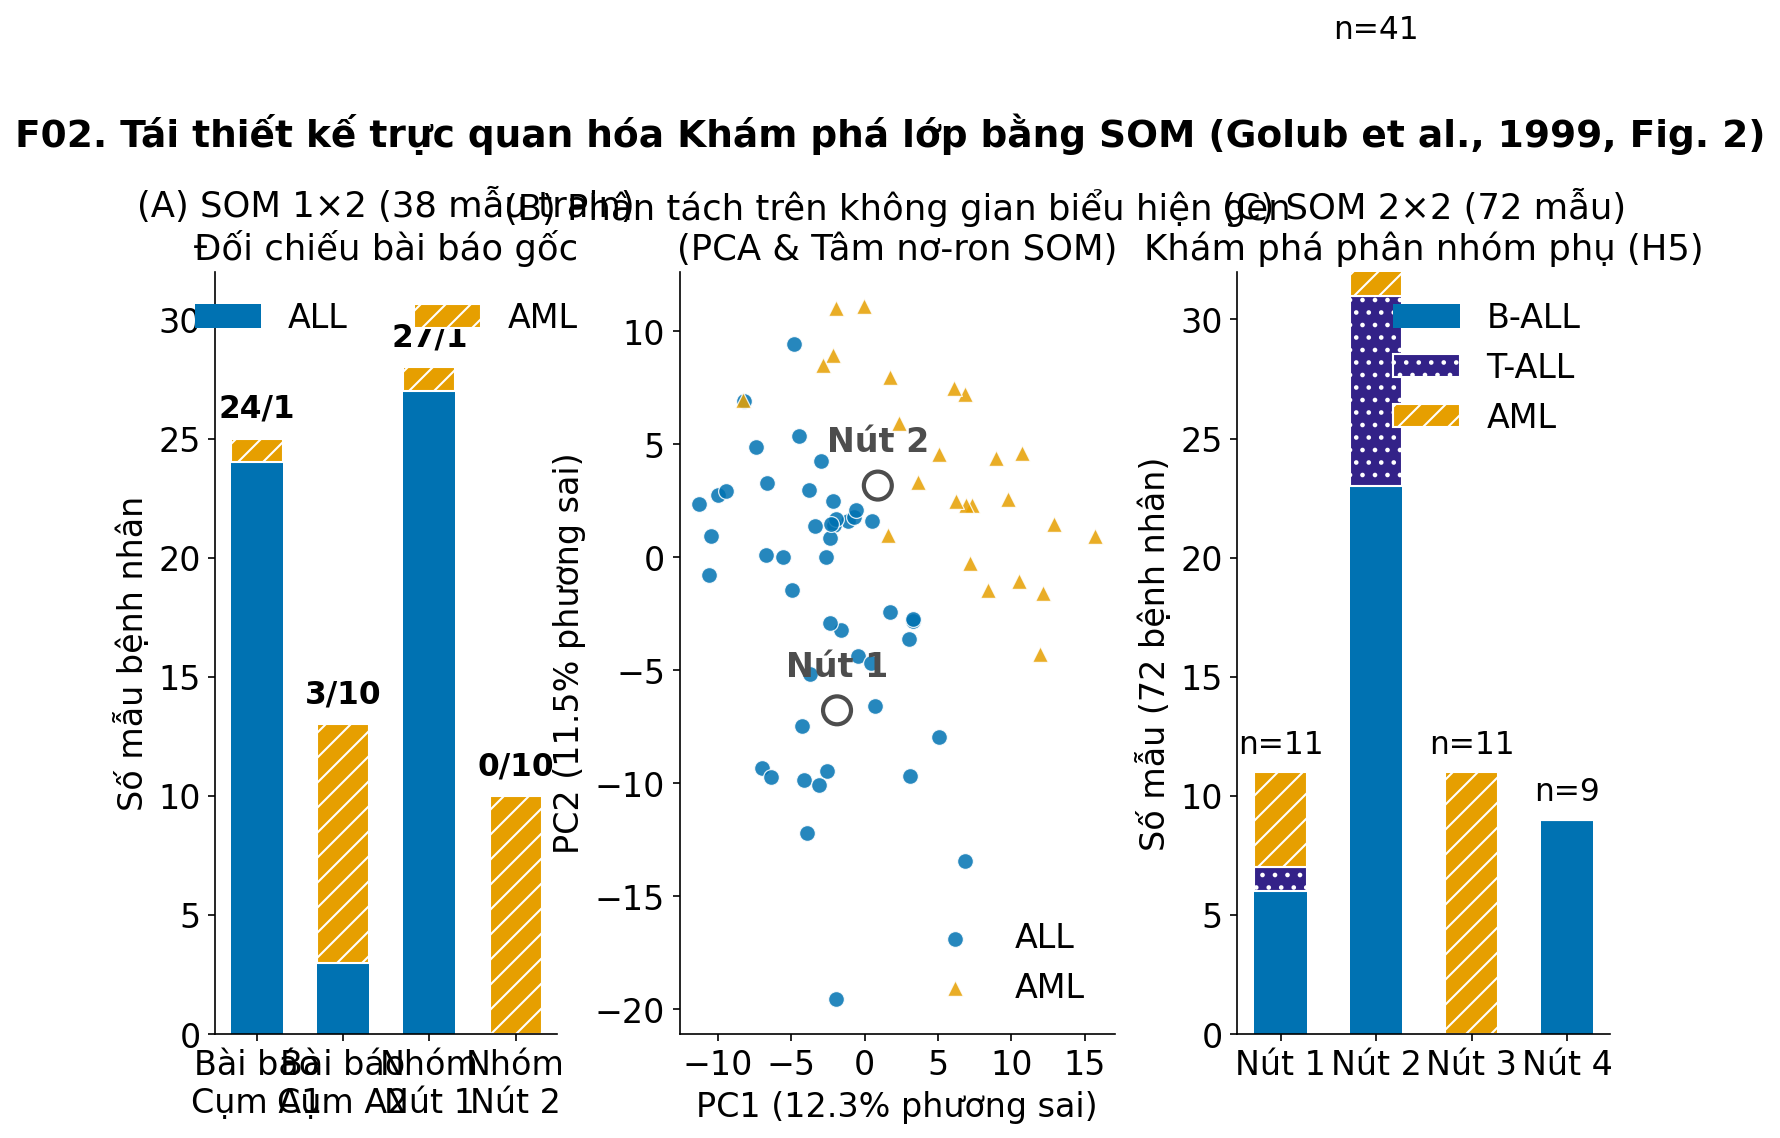
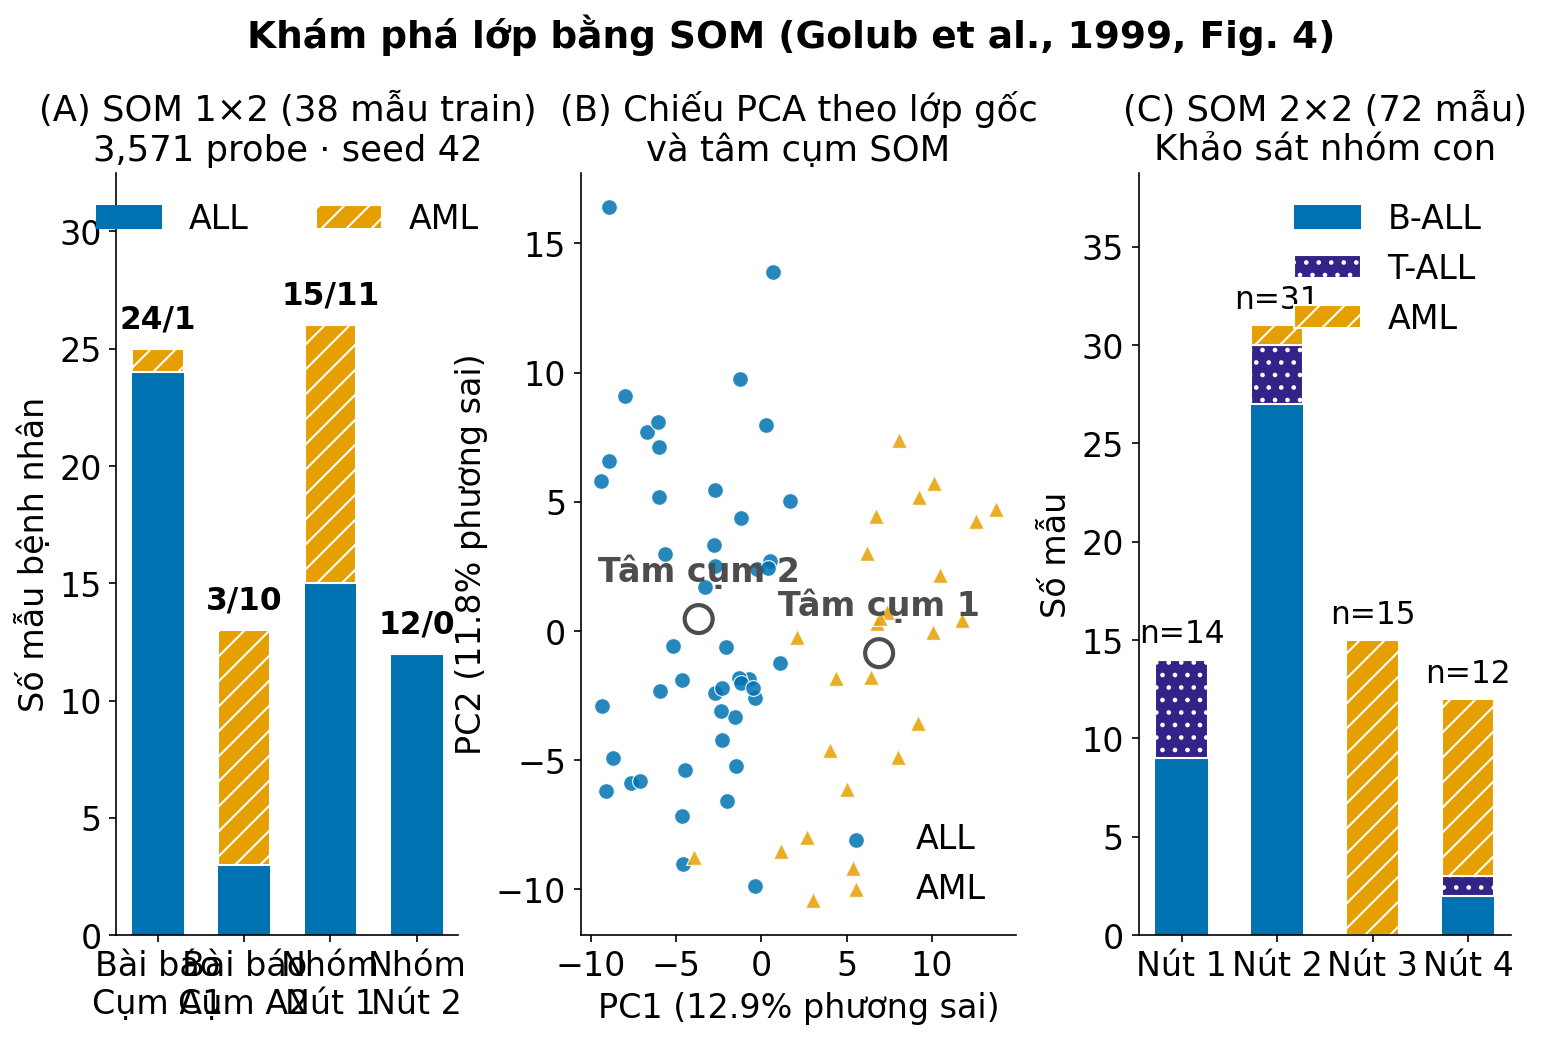
fix(tv5): gắn đúng hình SOM và bổ sung tham chiếu Fig 2

diff --git a/src/viz_redesign.py b/src/viz_redesign.py
@@ -1,7 +1,8 @@
 """TV5 - src/viz_redesign.py (Công việc 2.5: Tái thiết kế trực quan hóa Golub 1999; ADR-014, ADR-061).
 
 Tái thiết kế các hình kinh điển của bài báo Golub et al. (1999) theo chuẩn trực quan hóa hiện đại:
-    - Fig 2: Phân cụm không giám sát bằng Self-Organizing Maps (SOM 1x2 và 2x2), đối chiếu cấu trúc lớp và chiếu không gian biểu hiện gen.
+    - Fig 2: Phân tích lân cận dùng hình F6 đã có ở mục 3.3.
+    - Fig 4: Phân cụm không giám sát bằng Self-Organizing Maps (SOM 1x2 và 2x2), đối chiếu cấu trúc lớp và chiếu không gian biểu hiện gen.
     - Fig 3A: Phân bố Prediction Strength (PS) của mô hình Weighted Voting.
     - F04 (hình bổ sung của nhóm): Phân tích lỗi Logistic Regression trên tập kiểm tra độc lập theo loại mô và nguồn thu thập.
 
@@ -11,8 +12,8 @@ Tuân thủ nghiêm ngặt Style Guide (docs/style_guide.md) và ADR-014:
     - Không chỉnh sửa src/viz.py của TV6.
 
 Cách dùng:
-    from src.viz_redesign import plot_fig2_som_redesign, plot_fig3a_prediction_strength, plot_fig4_error_analysis
-    fig2 = plot_fig2_som_redesign(X, samples, mode="report")
+    from src.viz_redesign import plot_fig4_som_redesign, plot_fig3a_prediction_strength, plot_fig4_error_analysis
+    fig_som = plot_fig4_som_redesign(X, samples, mode="report")
     fig3a = plot_fig3a_prediction_strength(ps_df, mode="report")
     fig4 = plot_fig4_error_analysis(preds, samples, mode="report")
 
@@ -32,7 +33,7 @@ from sklearn.decomposition import PCA
 
 try:
     from src.config import (
-        PROJECT_ROOT, PS_THRESHOLD, RANDOM_SEED
+        CURATED_DIR, PROJECT_ROOT, PS_THRESHOLD, RANDOM_SEED
     )
     from src.evaluate import evaluate, _baseline_pipeline
     from src.load import load_golub
@@ -43,7 +44,7 @@ try:
     )
 except ModuleNotFoundError:
     from config import (
-        PROJECT_ROOT, PS_THRESHOLD, RANDOM_SEED
+        CURATED_DIR, PROJECT_ROOT, PS_THRESHOLD, RANDOM_SEED
     )
     from evaluate import evaluate, _baseline_pipeline
     from load import load_golub
@@ -55,7 +56,7 @@ except ModuleNotFoundError:
 
 
 # --------------------------------------------------------------------------------------
-# 1. Huấn luyện SOM hỗ trợ Fig 2
+# 1. Huấn luyện SOM hỗ trợ Fig 4
 # --------------------------------------------------------------------------------------
 
 def fit_som_labels(X_mat: np.ndarray, shape: tuple[int, int], seed: int = RANDOM_SEED, n_iter: int = 1500) -> np.ndarray:
@@ -67,23 +68,24 @@ def fit_som_labels(X_mat: np.ndarray, shape: tuple[int, int], seed: int = RANDOM
 
 
 # --------------------------------------------------------------------------------------
-# 2. Tái thiết kế Fig 2: SOM Class Discovery
+# 2. Tái thiết kế Fig 4: Khám phá lớp bằng SOM
 # --------------------------------------------------------------------------------------
 
-def plot_fig2_som_redesign(
+def plot_fig4_som_redesign(
     X_filtered: pd.DataFrame,
     samples: pd.DataFrame,
     mode: str = "report",
     seed: int = RANDOM_SEED
 ) -> plt.Figure:
-    """Tái thiết kế Hình 2 của bài báo Golub 1999: Khám phá lớp bằng mạng SOM.
+    """Tái thiết kế phần SOM của Fig. 4 trong bài báo Golub 1999.
 
     Gồm 3 bảng liên kết:
         (A) Thành phần lâm sàng các nơ-ron SOM 1x2 (38 mẫu huấn luyện): đối chiếu cụm A1/A2.
-        (B) Chiếu các mẫu và nơ-ron SOM lên không gian PCA PC1-PC2 để thấy ranh giới phân tách.
+        (B) Chiếu các mẫu lên PC1–PC2 và đánh dấu trung bình tọa độ của từng cụm SOM.
         (C) Phân tách các nhóm con tế bào lympho (B-ALL vs T-ALL) trên mạng SOM 2x2 (4 nơ-ron).
     """
     with plt.rc_context(style_rc(mode)):
+        samples = samples.loc[X_filtered.index]
         fig = plt.figure(figsize=(figsize(mode, height_ratio=0.5)[0], figsize(mode, height_ratio=0.5)[1] * 1.1))
         gs = fig.add_gridspec(1, 3, width_ratios=[1.1, 1.4, 1.2], wspace=0.32)
 
@@ -96,11 +98,9 @@ def plot_fig2_som_redesign(
         X_tr = X_filtered.loc[samples_tr.index].values
 
         lab_1x2 = fit_som_labels(X_tr, (1, 2), seed=seed, n_iter=1000)
-        ct_1x2 = pd.crosstab(lab_1x2, samples_tr["class"])
-        # Đảm bảo có đủ 2 cột ALL và AML
-        for col in ("ALL", "AML"):
-            if col not in ct_1x2.columns:
-                ct_1x2[col] = 0
+        ct_1x2 = pd.crosstab(lab_1x2, samples_tr["class"]).reindex(
+            index=range(2), columns=["ALL", "AML"], fill_value=0,
+        )
 
         # Sắp xếp nút có ALL chiếm ưu thế sang trái (A1)
         if ct_1x2.loc[0, "ALL"] < ct_1x2.loc[1, "ALL"]:
@@ -126,8 +126,8 @@ def plot_fig2_som_redesign(
         ax_a.set_xticks(x_pos)
         ax_a.set_xticklabels([p[0] for p in paper_counts])
         ax_a.set_ylabel("Số mẫu bệnh nhân")
-        ax_a.set_ylim(0, 32)
-        ax_a.set_title("(A) SOM 1×2 (38 mẫu train)\nĐối chiếu bài báo gốc")
+        ax_a.set_ylim(0, 1.25 * max(a + m for _, a, m in paper_counts))
+        ax_a.set_title(f"(A) SOM 1×2 ({len(samples_tr)} mẫu train)\n{X_filtered.shape[1]:,} probe · seed {seed}")
         ax_a.legend(frameon=False, loc="upper center", ncol=2)
 
         # ---------------------------------------------------------
@@ -150,21 +150,18 @@ def plot_fig2_som_redesign(
                 alpha=0.85, edgecolors="white", linewidth=0.6, label=cls_name, zorder=3
             )
 
-        # Vẽ đường ellipse / ranh giới gần đúng giữa 2 nơ-ron SOM
-        centroids_pca = []
+        # Đánh dấu trung bình tọa độ PCA của các mẫu trong từng cụm.
         for n_id in np.unique(lab_all_1x2):
             pts = X_pca[lab_all_1x2 == n_id]
             c = pts.mean(axis=0)
-            centroids_pca.append(c)
-            # Vẽ vòng tròn tâm nơ-ron
             ax_b.scatter(c[0], c[1], s=style_rc(mode)["lines.linewidth"] * 75,
                          facecolors="none", edgecolors=NEUTRAL, linewidths=2.0, zorder=4)
-            ax_b.text(c[0], c[1] + 1.2, f"Nút {n_id + 1}", ha="center", va="bottom",
+            ax_b.text(c[0], c[1] + 1.2, f"Tâm cụm {n_id + 1}", ha="center", va="bottom",
                       color=NEUTRAL, fontweight="bold")
 
         ax_b.set_xlabel(f"PC1 ({var1:.1f}% phương sai)")
         ax_b.set_ylabel(f"PC2 ({var2:.1f}% phương sai)")
-        ax_b.set_title("(B) Phân tách trên không gian biểu hiện gen\n(PCA & Tâm nơ-ron SOM)")
+        ax_b.set_title("(B) Chiếu PCA theo lớp gốc\nvà tâm cụm SOM")
         ax_b.legend(frameon=False, loc="lower right")
 
         # ---------------------------------------------------------
@@ -172,12 +169,10 @@ def plot_fig2_som_redesign(
         # ---------------------------------------------------------
         ax_c = fig.add_subplot(gs[0, 2])
         lab_2x2 = fit_som_labels(X_filtered.values, (2, 2), seed=seed, n_iter=1500)
-        ct_2x2 = pd.crosstab(lab_2x2, samples["subtype"])
-        for sub in ("B-ALL", "T-ALL", "AML"):
-            if sub not in ct_2x2.columns:
-                ct_2x2[sub] = 0
-
         n_nodes = 4
+        ct_2x2 = pd.crosstab(lab_2x2, samples["subtype"]).reindex(
+            index=range(n_nodes), columns=["B-ALL", "T-ALL", "AML"], fill_value=0,
+        )
         x_c = np.arange(n_nodes)
         b_vals = ct_2x2["B-ALL"].values
         t_vals = ct_2x2["T-ALL"].values
@@ -194,12 +189,12 @@ def plot_fig2_som_redesign(
 
         ax_c.set_xticks(x_c)
         ax_c.set_xticklabels([f"Nút {i+1}" for i in range(n_nodes)])
-        ax_c.set_ylabel("Số mẫu (72 bệnh nhân)")
-        ax_c.set_ylim(0, 32)
-        ax_c.set_title("(C) SOM 2×2 (72 mẫu)\nKhám phá phân nhóm phụ (H5)")
+        ax_c.set_ylabel("Số mẫu")
+        ax_c.set_ylim(0, 1.25 * (b_vals + t_vals + m_vals).max())
+        ax_c.set_title(f"(C) SOM 2×2 ({len(samples)} mẫu)\nKhảo sát nhóm con")
         ax_c.legend(frameon=False, loc="upper right")
 
-        fig.suptitle("F02. Tái thiết kế trực quan hóa Khám phá lớp bằng SOM (Golub et al., 1999, Fig. 2)",
+        fig.suptitle("Khám phá lớp bằng SOM (Golub et al., 1999, Fig. 4)",
                      y=1.04, fontweight="bold")
         return fig
 
@@ -477,6 +472,7 @@ def generate_all_redesigned_figures() -> None:
     """Sinh toàn bộ hình F02, F03a và F04 ở cả hai phiên bản report và slide."""
     print("--- Bắt đầu sinh hình F02, F03a và F04 tái thiết kế ---")
     X_cu, samples = load_golub("curated")
+    X_som = pd.read_parquet(CURATED_DIR / "X_log10_filtered.parquet")
 
     # 1. Chạy đánh giá để lấy bảng dự đoán 34 mẫu kiểm tra cho Fig 4
     pipe = _baseline_pipeline(k=50)
@@ -484,11 +480,10 @@ def generate_all_redesigned_figures() -> None:
     preds = res["predictions"]
 
     for mode in ("report", "slide"):
-        # Sinh Fig 2
-        fig2 = plot_fig2_som_redesign(X_cu, samples, mode=mode)
-        path2 = save_figure(fig2, "F02_som_redesign", mode=mode)
-        plt.close(fig2)
-        print(f"[{mode.upper()}] Đã lưu: {path2}")
+        fig_som = plot_fig4_som_redesign(X_som, samples, mode=mode)
+        path_som = save_figure(fig_som, "F02_som_redesign", mode=mode)
+        plt.close(fig_som)
+        print(f"[{mode.upper()}] Đã lưu: {path_som}")
 
         # Sinh Fig 3A
         fig3a = plot_fig3a_prediction_strength(ps_df=None, mode=mode)
@@ -496,7 +491,7 @@ def generate_all_redesigned_figures() -> None:
         plt.close(fig3a)
         print(f"[{mode.upper()}] Đã lưu: {path3a}")
 
-        # Sinh Fig 4
+        # Sinh hình bổ sung F04
         fig4 = plot_fig4_error_analysis(preds, samples, mode=mode)
         path4 = save_figure(fig4, "F04_error_analysis", mode=mode)
         plt.close(fig4)

diff --git a/tests/test_viz_redesign.py b/tests/test_viz_redesign.py
@@ -15,7 +15,7 @@ sys.path.insert(0, os.path.dirname(os.path.dirname(os.path.abspath(__file__))))
 
 from src.config import REPORT_FIG_DIR, SLIDE_FIG_DIR
 from src.viz_redesign import (
-    fit_som_labels, plot_fig2_som_redesign,
+    fit_som_labels, plot_fig4_som_redesign,
     plot_fig3a_prediction_strength, plot_fig4_error_analysis
 )
 
@@ -82,11 +82,13 @@ def test_fit_som_labels_shape(mock_discovery_data):
     assert set(np.unique(labels)).issubset({0, 1})
 
 
-def test_plot_fig2_som_redesign_returns_figure(mock_discovery_data):
+def test_plot_fig4_som_redesign_returns_figure(mock_discovery_data):
     X_df, samples = mock_discovery_data
     for mode in ("report", "slide"):
-        fig = plot_fig2_som_redesign(X_df, samples, mode=mode, seed=42)
+        fig = plot_fig4_som_redesign(X_df, samples, mode=mode, seed=42)
         assert isinstance(fig, plt.Figure)
+        assert "Fig. 4" in fig.texts[-1].get_text()
+        assert "50 probe" in fig.axes[0].get_title()
         plt.close(fig)
 
 
@@ -114,7 +116,7 @@ def test_plot_fig4_error_analysis_returns_figure(mock_discovery_data, mock_predi
 def test_fig_styles_reject_invalid_mode(mock_discovery_data, mock_predictions, mock_ps_df):
     X_df, samples = mock_discovery_data
     with pytest.raises(ValueError):
-        plot_fig2_som_redesign(X_df, samples, mode="invalid")
+        plot_fig4_som_redesign(X_df, samples, mode="invalid")
 
     with pytest.raises(ValueError):
         plot_fig3a_prediction_strength(mock_ps_df, mode="invalid")

diff --git a/docs/decisions.md b/docs/decisions.md
@@ -420,10 +420,10 @@ tái lập được và truy ngược về nguồn.
 - **Ngày:** 15/11/2026 (bổ sung Fig 3A ngày 25/11/2026) · **Người quyết định:** TV5 (theo ADR-014 của TV1 và Kế hoạch Giai đoạn 2)
 - **Bối cảnh:** Các hình gốc trong bài báo Golub et al. (Science, 1999) sử dụng công nghệ đồ họa cũ (thang xám, thiếu phân tách thành phần lâm sàng, biểu đồ thanh mật độ thô khó quan sát chi tiết từng bệnh nhân). Mục tiêu môn học yêu cầu trực quan hóa hiện đại, an toàn cho người mù màu và tích hợp góc nhìn Quản trị dữ liệu (Data Governance).
 - **Quyết định:** Tạo module `src/viz_redesign.py` và notebook `notebooks/05_viz_redesign.ipynb` độc lập với `src/viz.py` của TV6:
-  1. **Fig 2 (SOM Class Discovery):**
+  1. **Fig. 2 (phân tích lân cận):** Dùng lại hình F6 của nhóm. **Fig. 4 (khám phá lớp bằng SOM):**
      - Bảng A: Biểu đồ thanh đối chiếu thành phần mẫu ALL/AML trong 2 nơ-ron SOM 1×2 (38 mẫu train) giữa bài báo gốc và thực nghiệm của nhóm.
      - Bảng B: Chiếu không gian biểu hiện gen PCA (PC1 vs PC2) kết hợp tọa độ tâm nơ-ron SOM, làm rõ cấu trúc ranh giới cụm tự nhiên.
-     - Bảng C: Khám phá phân nhóm sâu trên mạng SOM 2×2 (4 nơ-ron, 72 mẫu), chứng minh T-ALL không tách khỏi B-ALL ở cấp độ không giám sát (ủng hộ H5 ở mức ALL/AML, bác bỏ ở mức subtype).
+     - Bảng C: Khám phá phân nhóm sâu trên mạng SOM 2×2 (4 nơ-ron, 72 mẫu), cho thấy T-ALL chưa tạo cụm riêng ở cấu hình của nhóm.
   2. **Fig 3A (Prediction Strength):**
      - Bảng A (LOOCV 38 mẫu): Trực quan hóa giá trị PS từ `results/metrics/golub_ps.csv` (TV1), vạch ngưỡng $PS = 0.30$, phủ dải cảnh báo "Uncertain" ($PS < 0.30$) thể chế hóa cơ chế *Human-in-the-loop*; 36/38 mẫu chắc chắn và đúng 100%, 2 mẫu rơi vào vùng không chắc chắn (#12, #35).
      - Bảng B (34 mẫu kiểm tra): 33 mẫu chắc chắn, đúng 32/33. Mẫu 66 được dự đoán thành ALL với PS = 0,30004, sát ngưỡng 0,30. Trong 10 mẫu máu ngoại vi, 9 mẫu được dự đoán đúng và mẫu 67 có nhãn `uncertain`.
